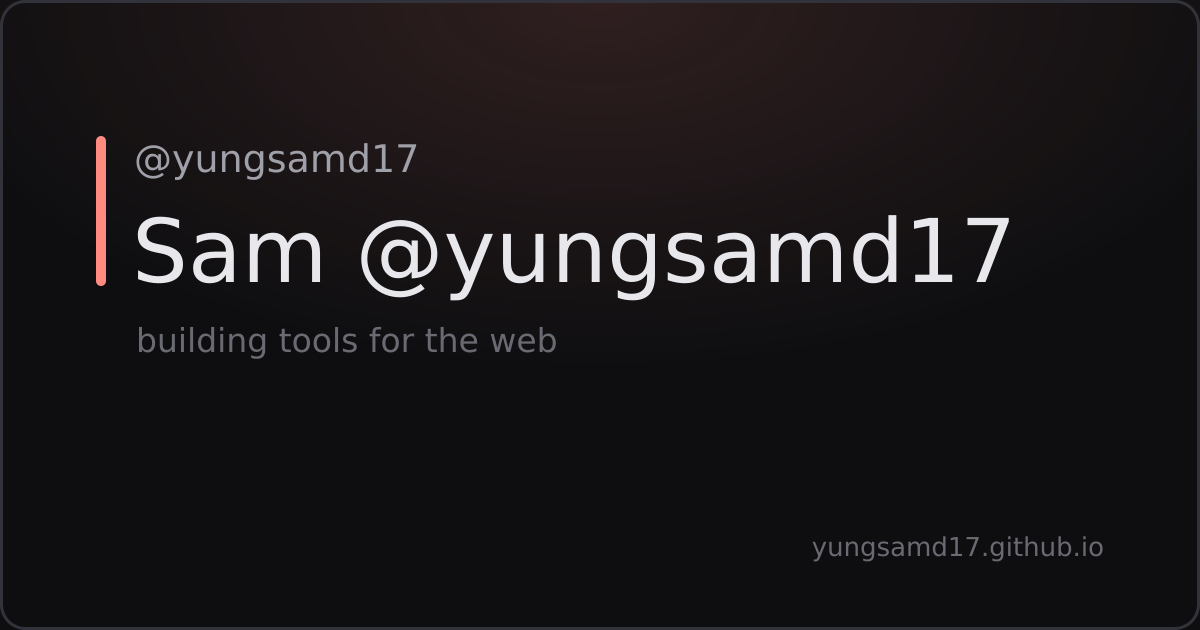
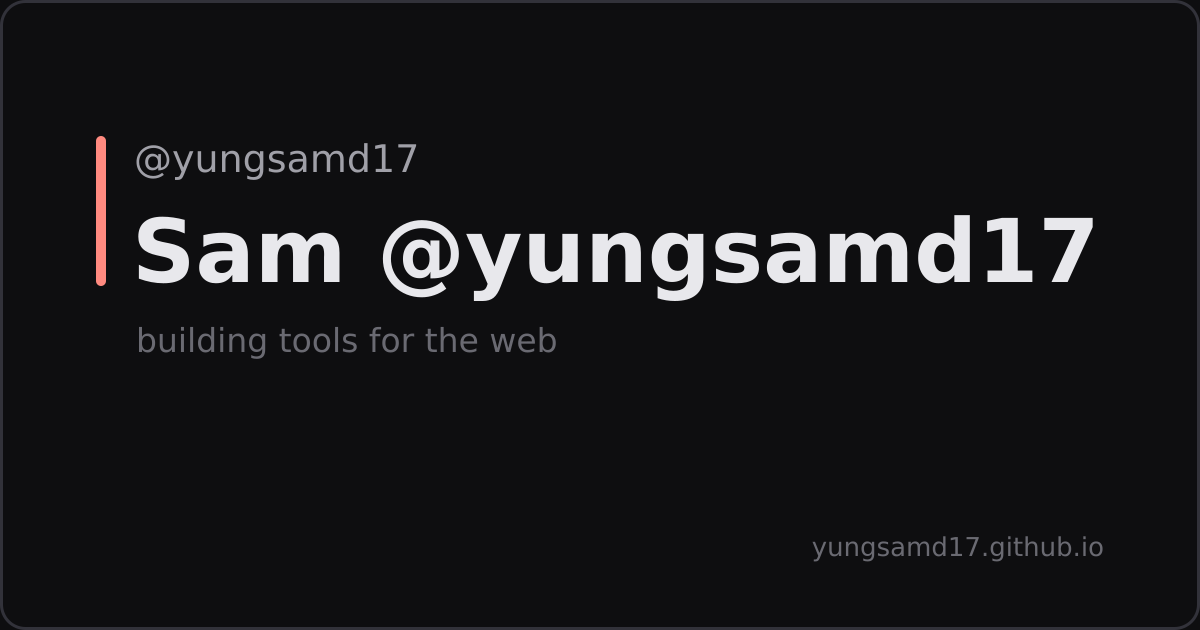
feat(site): refresh OG cards and remove unused about card

Changed region(s): [[0.0925, 0.3317, 0.925, 0.4825], [0.3083, 0.0, 0.6783, 0.181]]

diff --git a/src/pages/og/[slug].png.ts b/src/pages/og/[slug].png.ts
@@ -1,5 +1,7 @@
 import type { APIRoute } from 'astro';
 import sharp from 'sharp';
+import { SITE } from '../../data/site';
+import { UI } from '../../i18n/ui';
 
 interface OgPage {
   slug: string;
@@ -7,10 +9,12 @@ interface OgPage {
   subtitle?: string;
 }
 
+// Keep the card copy on the same strings the pages use, so it stays in sync
+// with the site instead of drifting into a second set of hardcoded titles.
 const PAGES: OgPage[] = [
-  { slug: 'index', title: 'Sam @yungsamd17', subtitle: 'building tools for the web' },
-  { slug: 'projects', title: 'Other projects', subtitle: 'browser extensions, userscripts, and web tools' },
-  { slug: 'links', title: 'Links', subtitle: 'all socials and profiles in one place' },
+  { slug: 'index', title: SITE.title, subtitle: UI.en.tagline },
+  { slug: 'projects', title: UI.en.projectsTitle, subtitle: 'browser extensions, userscripts, and web tools' },
+  { slug: 'links', title: UI.en.linksTitle, subtitle: UI.en.linksMeta },
 ];
 
 export const getStaticPaths = () => PAGES.map(({ slug }) => ({ params: { slug } }));
@@ -20,14 +24,7 @@ const esc = (s: string) =>
 
 function renderSvg({ title, subtitle }: OgPage): string {
   return `<svg width="1200" height="630" viewBox="0 0 1200 630" xmlns="http://www.w3.org/2000/svg">
-  <defs>
-    <radialGradient id="glow" cx="50%" cy="0%" r="90%">
-      <stop offset="0%" stop-color="#ff8a80" stop-opacity="0.14"/>
-      <stop offset="65%" stop-color="#ff8a80" stop-opacity="0"/>
-    </radialGradient>
-  </defs>
   <rect width="1200" height="630" fill="#0e0e10"/>
-  <rect width="1200" height="630" fill="url(#glow)"/>
   <rect x="1.5" y="1.5" width="1197" height="627" rx="24" fill="none" stroke="#32323a" stroke-width="3"/>
   <rect x="96" y="136" width="10" height="150" rx="5" fill="#ff8a80"/>
   <text x="134" y="172" font-family="DejaVu Sans, Segoe UI, sans-serif" font-size="38" fill="#a0a0a8">@yungsamd17</text>

diff --git a/docs/README.md b/docs/README.md
@@ -78,7 +78,6 @@ yungsamd17.github.io/
 │   ├── pages/
 │   │   ├── index.astro         # Home
 │   │   ├── projects.astro      # Build-time GitHub stars via API
-│   │   ├── about.astro
 │   │   ├── links.astro         # Link-in-bio page (+ copy-email button)
 │   │   ├── extras.astro        # Experimental/legacy toggles (excluded from sitemap)
 │   │   ├── 404.astro
@@ -350,7 +349,9 @@ The page is marked `<meta name="robots" content="noindex">` (the `noindex` prop 
 
 ## Dynamic OG Images
 
-`src/pages/og/[slug].png.ts` prerenders 1200×630 share cards (coral accent bar, handle, page title, tagline) for `/`, `/about`, `/projects` and `/links` using sharp. `BaseHead.astro` maps each route to its card and upgrades `twitter:card` to `summary_large_image`; any other route (e.g. `/extras`) falls back to `logo.jpg` + `summary`.
+`src/pages/og/[slug].png.ts` prerenders 1200×630 share cards for `/`, `/projects` and `/links` using sharp. The copy comes from `SITE` and `UI.en` so the cards stay in sync with the pages. Each card uses the site's dark background and coral accent bar with no background gradient, matching the plain page background. `BaseHead.astro` maps each route to its card and upgrades `twitter:card` to `summary_large_image`; any other route (e.g. `/extras`) falls back to `logo.jpg` + `summary`.
+
+`docs/assets/og/` holds copies of the three generated cards for documentation, one per live OG route. An old `/about` card is not shipped because there is no about page.
 
 Example — home page card (`docs/assets/og/`):
 
